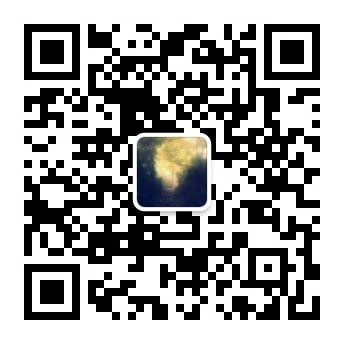
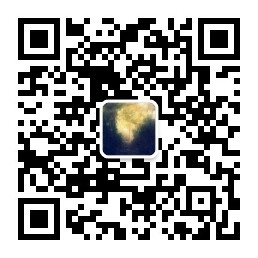
update: 增加公众号二维码

diff --git a/README.md b/README.md
@@ -2,7 +2,7 @@
 
 也可以关注公共号哈～
 
-![]()
+![](https://raw.githubusercontent.com/sliwey/blog/master/images/qrcode.jpg)
 
 ### 目录
 
